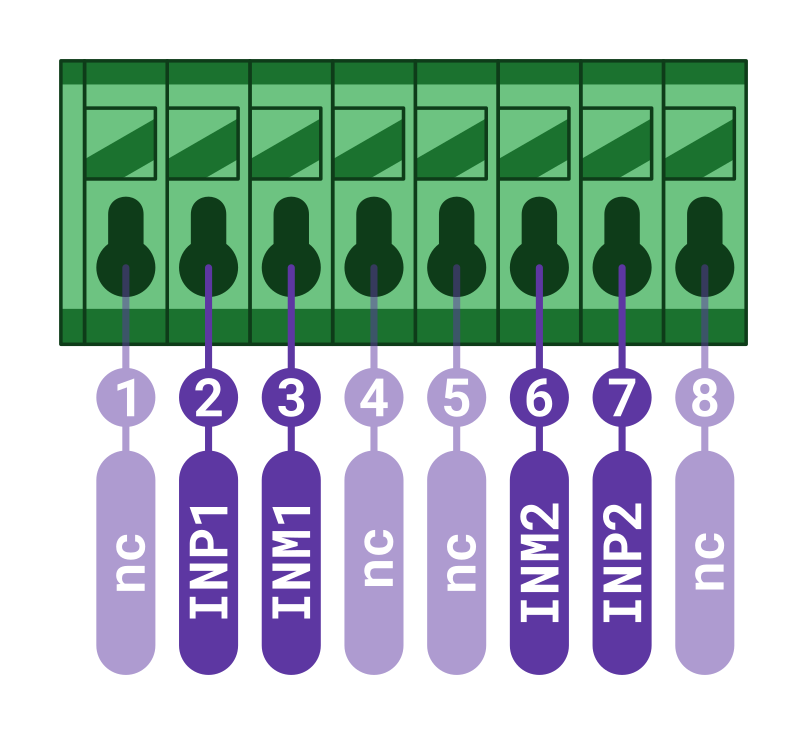
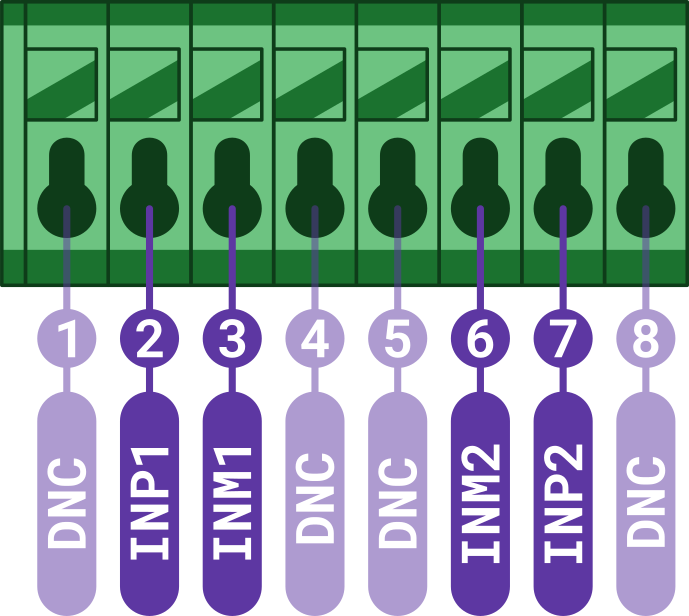
CHESTER: Update X5

diff --git a/chester/extension-modules/chester-x5.md b/chester/extension-modules/chester-x5.md
@@ -20,14 +20,14 @@ CHESTER-X5 implements two **isolated** voltage inputs. Each can measure voltage 
 
 | Position | Signal Name | Signal Description           |
 | -------- | ----------- | ---------------------------- |
-| 1        | nc          | Reserved                     |
+| 1        | DNC         | Reserved                     |
 | 2        | INP1        | Channel 1 **positive** input |
-| 3        | INM1        | Channel 1 negative input     |
-| 4        | nc          | Reserved                     |
-| 5        | nc          | Reserved                     |
-| 6        | INM2        | Channel 2 negative input     |
+| 3        | INM1        | Channel 1 **negative** input |
+| 4        | DNC         | Reserved                     |
+| 5        | DNC         | Reserved                     |
+| 6        | INM2        | Channel 2 **negative** input |
 | 7        | INP2        | Channel 2 **positive** input |
-| 8        | nc          | Reserved                     |
+| 8        | DNC         | Reserved                     |
 
 ## Module Drawing
 
